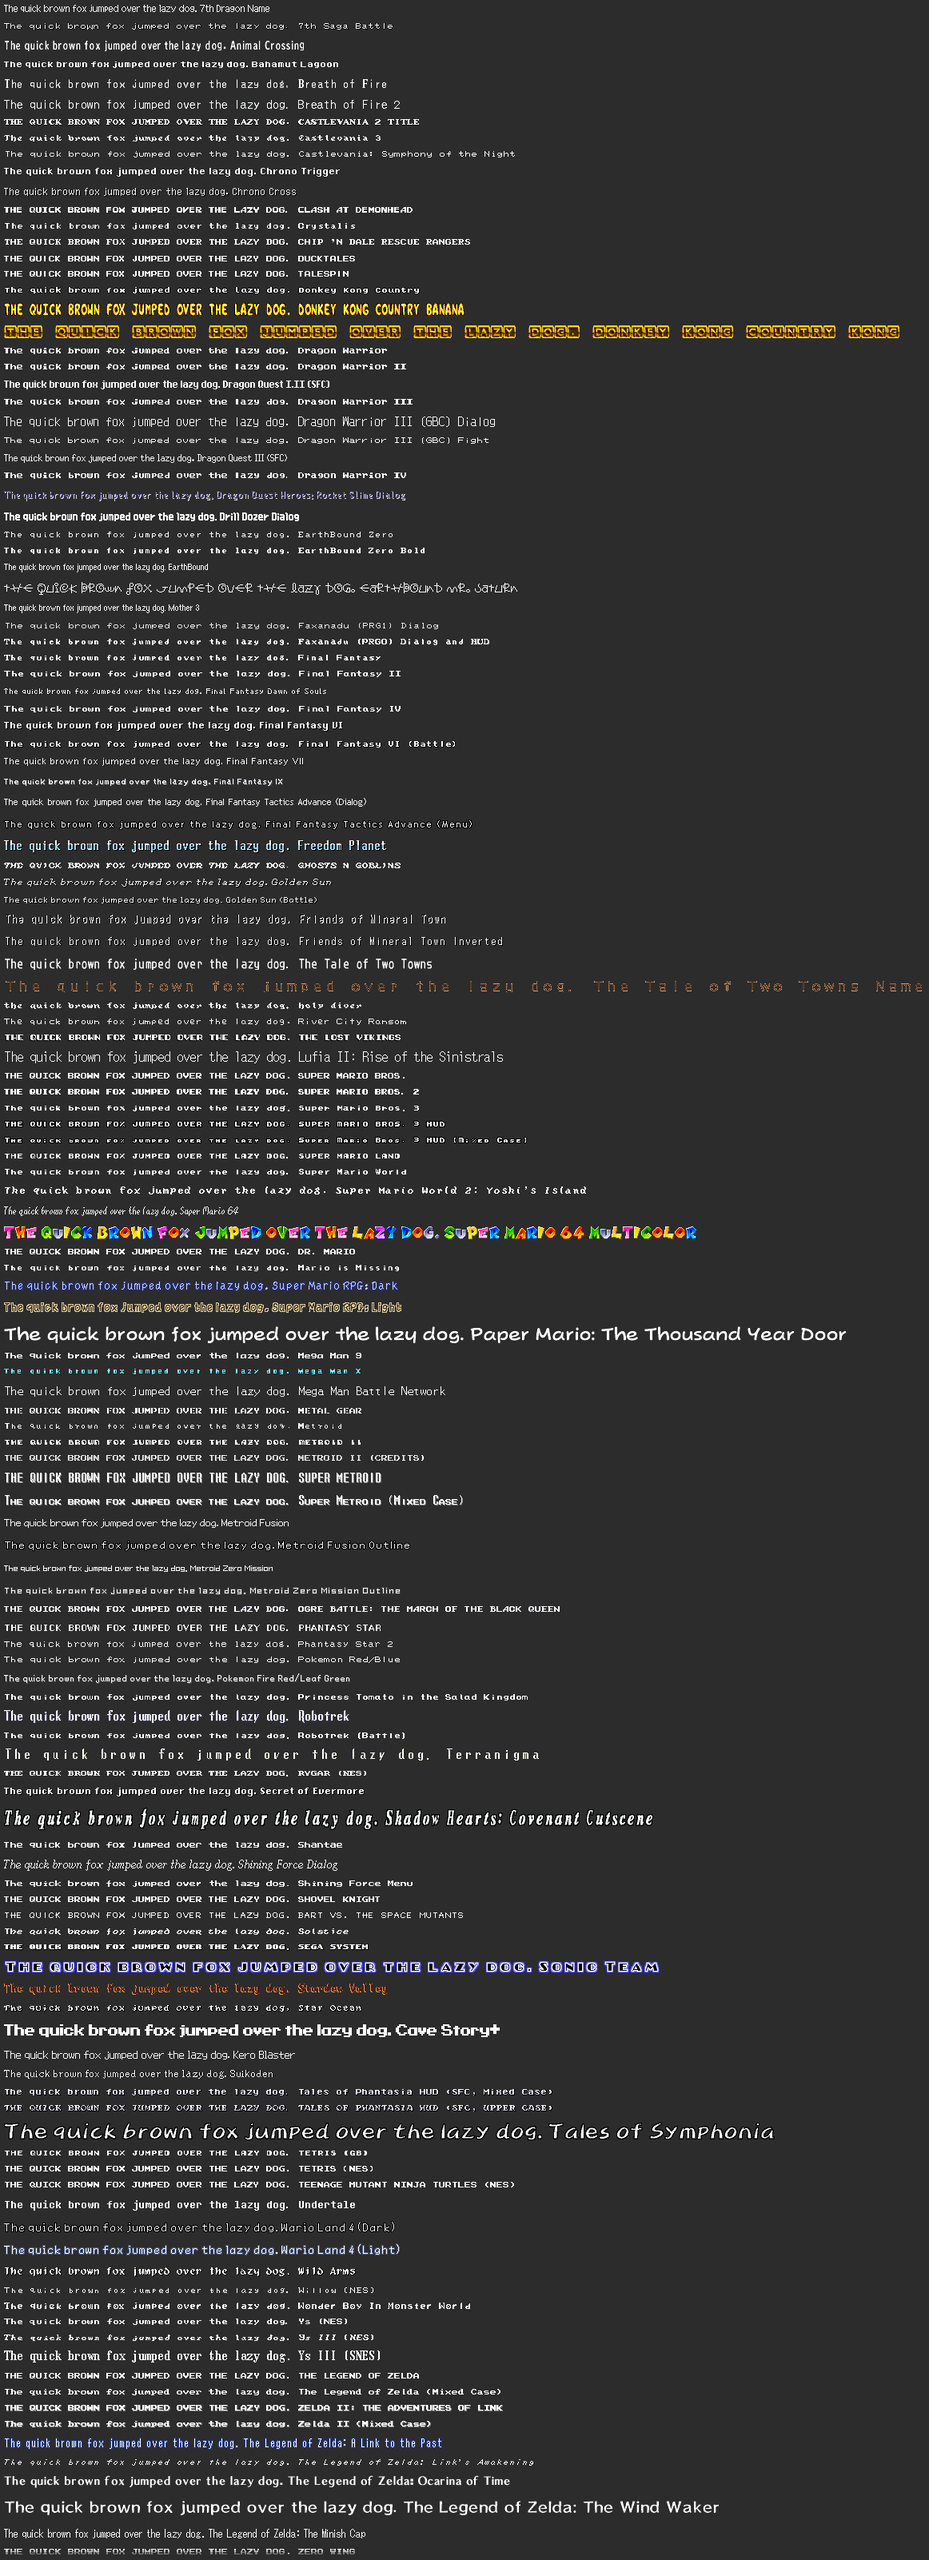
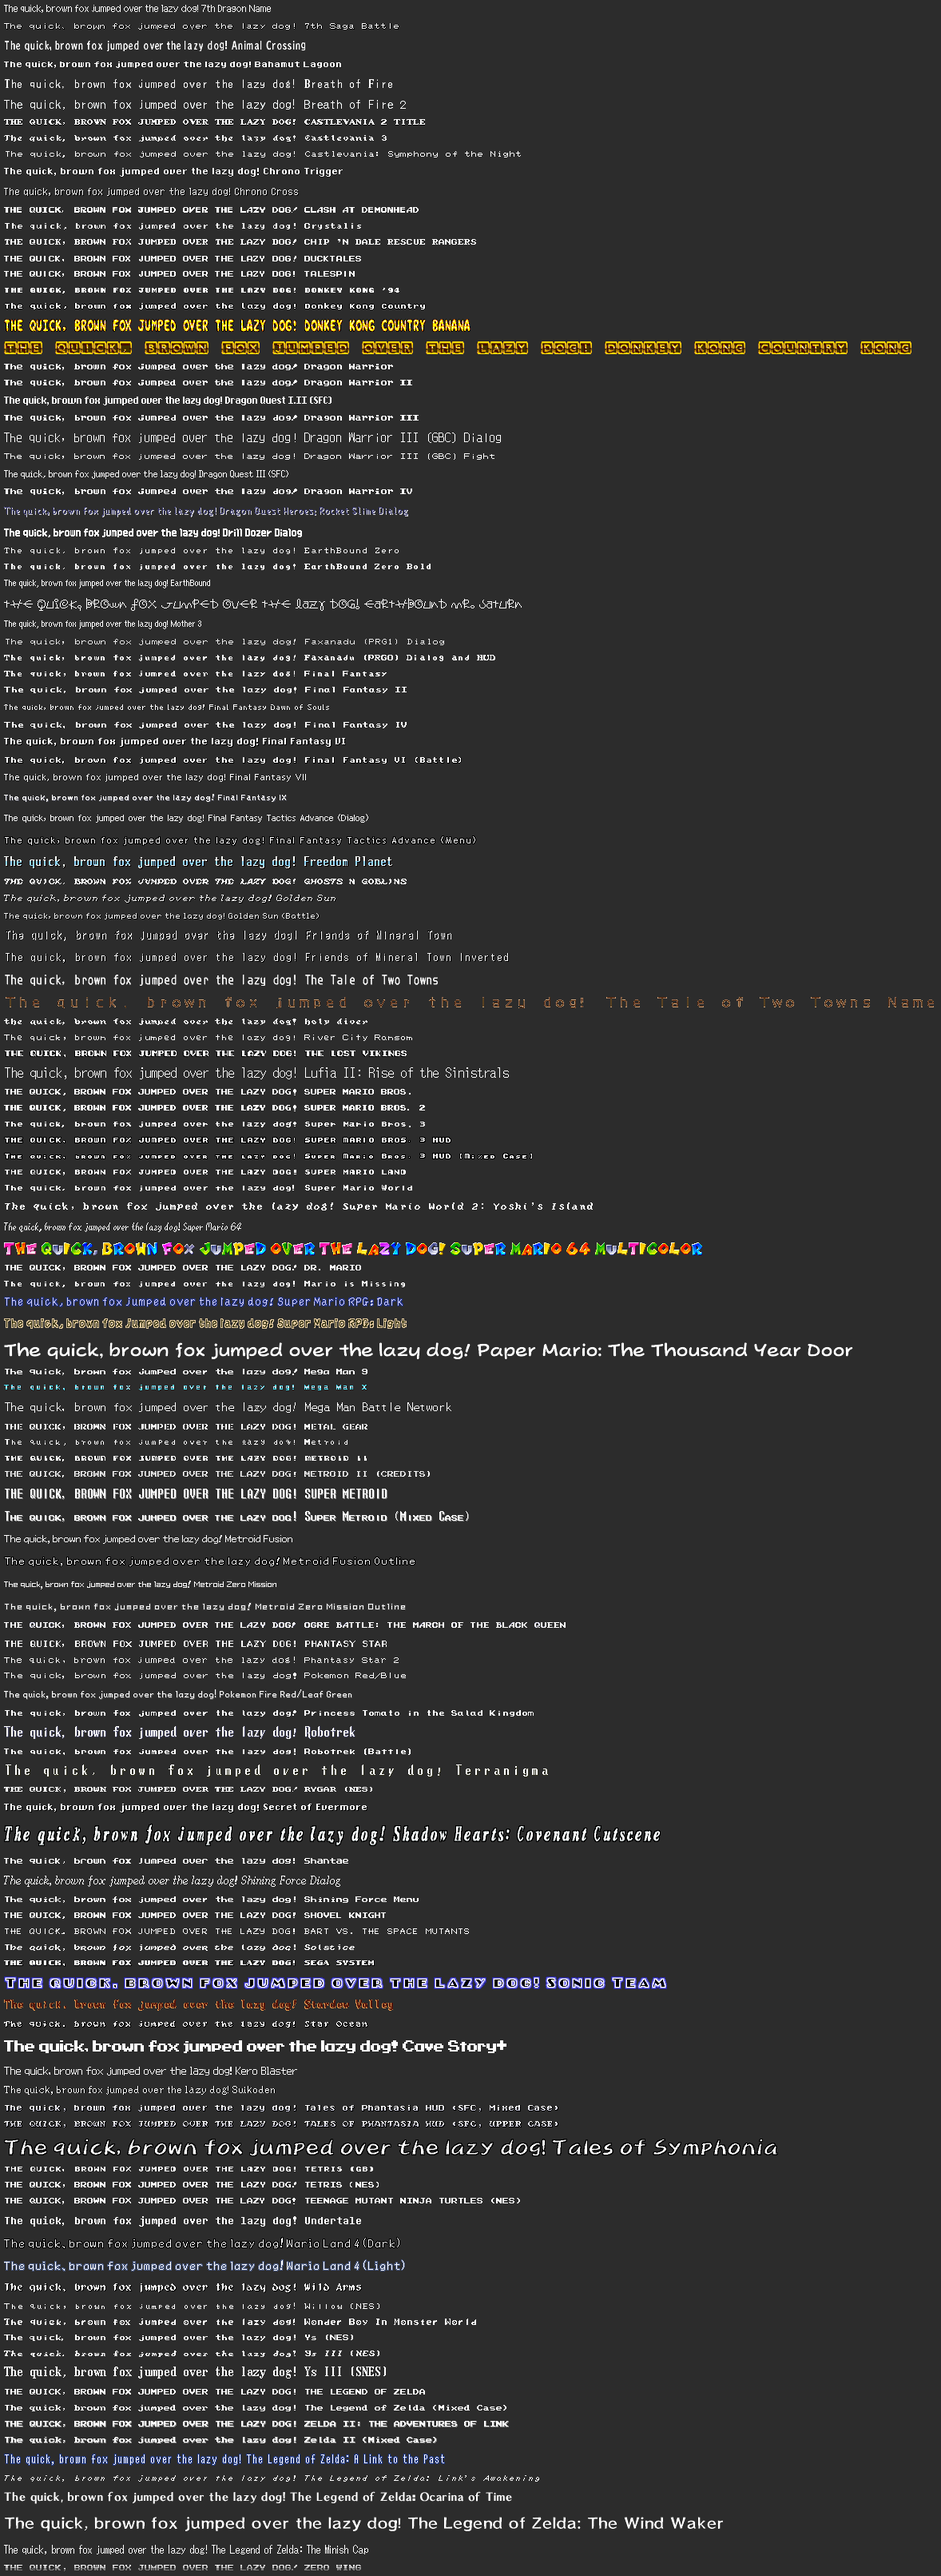
Added Donkey Kong 94 font and border

Changed region(s): [[0.0, 0.0, 0.9604, 0.9994], [0.7126, 0.9681, 0.7435, 0.9994], [0.5886, 0.9681, 0.6196, 0.9994]]

diff --git a/src/main/resources/help.html b/src/main/resources/help.html
@@ -224,7 +224,7 @@ table {
             of that font is determined as it would be for a fixed width font, based on the font image grid size.</td>
         </tr>
         <tr>
-          <td>Baseline Offset</td>
+          <td>Baseline Height Offset</td>
           <td>The baseline offset is the distance from the bottom of a font's characters to the place where the characters would be written on a line. For example, the tail a lowercase 'p' character would hang below the baseline. When the baseline
             offset value is zero, the very bottom of the entire character height is the baseline. If the baseline of the font is higher, this offset can indicate that offset so calculations made to place things like badges or extended characters can be
             based on the baseline rather than the whole character height.</td>
@@ -275,7 +275,7 @@ table {
       <table>
         <tr>
           <td>Show Usernames</td>
-          <td>Whether to display the usersname on the messages.</td>
+          <td>Whether to display the user's name on the messages.</td>
         </tr>
         <tr>
           <td>Show Joins</td>

diff --git a/src/main/java/com/glitchcog/fontificator/gui/controls/panel/ControlPanelFont.java b/src/main/java/com/glitchcog/fontificator/gui/controls/panel/ControlPanelFont.java
@@ -84,6 +84,7 @@ public class ControlPanelFont extends ControlPanelBase
             put(new DropdownLabel("Disney Capcom", "Chip 'n Dale Rescue Rangers"), new DropdownFont("cndrr_font.png", FontType.FIXED_WIDTH));
             put(new DropdownLabel("Disney Capcom", "DuckTales"), new DropdownFont("ducktales_font.png", FontType.FIXED_WIDTH));
             put(new DropdownLabel("Disney Capcom", "TaleSpin"), new DropdownFont("talespin_font.png", FontType.FIXED_WIDTH));
+            put(new DropdownLabel("Donkey Kong", "Donkey Kong 94"), new DropdownFont("dk94_font.png", FontType.FIXED_WIDTH));
             put(new DropdownLabel("Donkey Kong", "Donkey Kong Country"), new DropdownFont("dkc_font.png", FontType.FIXED_WIDTH));
             put(new DropdownLabel("Donkey Kong", "Donkey Kong Country Banana"), new DropdownFont("dkc_banana_font.png", FontType.FIXED_WIDTH));
             put(new DropdownLabel("Donkey Kong", "Donkey Kong Country KONG"), new DropdownFont("dkc_kong_font.png", FontType.FIXED_WIDTH));
@@ -272,6 +273,7 @@ public class ControlPanelFont extends ControlPanelBase
             put(new DropdownLabel("Disney Capcom", "DuckTales HUD"), new DropdownBorder("ducktales_hud_border.png", Color.WHITE));
             put(new DropdownLabel("Disney Capcom", "DuckTales Land Select"), new DropdownBorder("ducktales_land_border.png", Color.WHITE));
             put(new DropdownLabel("Disney Capcom", "TaleSpin"), new DropdownBorder("talespin_border.png", Color.WHITE));
+            put(new DropdownLabel("Donkey Kong", "Donkey Kong '94"), new DropdownBorder("dk94_border.png", Color.WHITE));
             put(new DropdownLabel("Dragon Warrior", "Dragon Warrior"), new DropdownBorder("dw1_border.png", Color.WHITE));
             put(new DropdownLabel("Dragon Warrior", "Dragon Warrior II"), new DropdownBorder("dw2_border.png", Color.WHITE));
             put(new DropdownLabel("Dragon Warrior", "Dragon Quest I.II (SFC)"), new DropdownBorder("dq1_2_sfc_border.png", Color.WHITE));

diff --git a/README.md b/README.md
@@ -144,6 +144,7 @@ I'm sorry, I should have mentioned that you can use the Font/Border tab to selec
   - Clash at Demonhead
   - Crystalis
   - DuckTales (NES)
+  - Donkey Kong '94
   - Donkey Kong Country
   - Dr. Mario
   - Dragon Warrior
